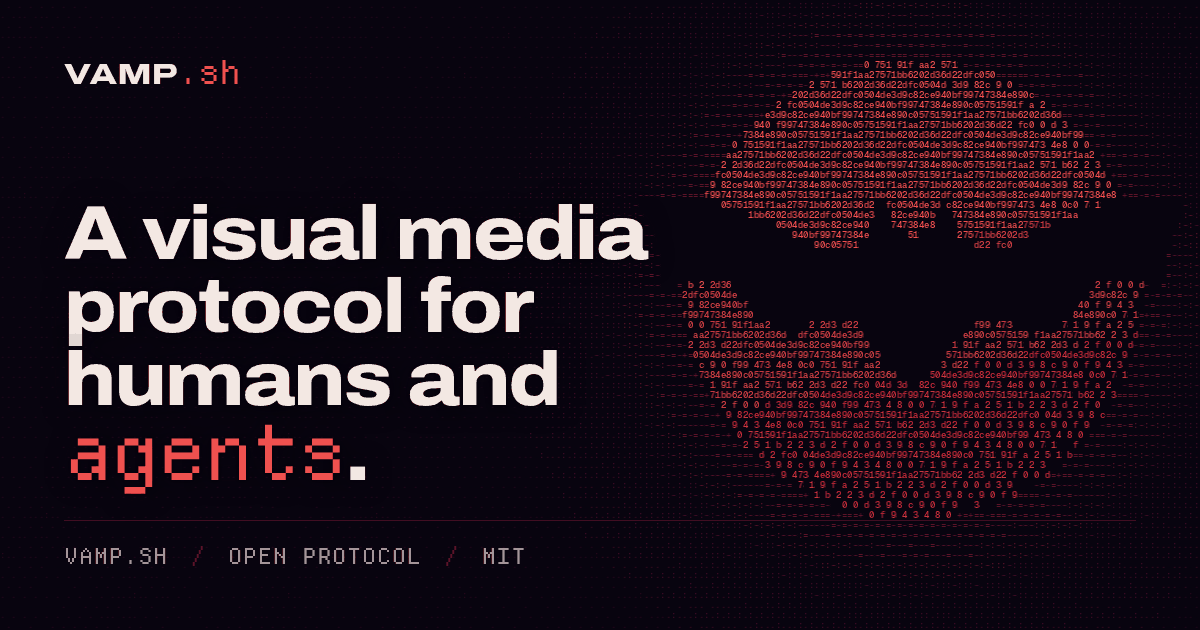
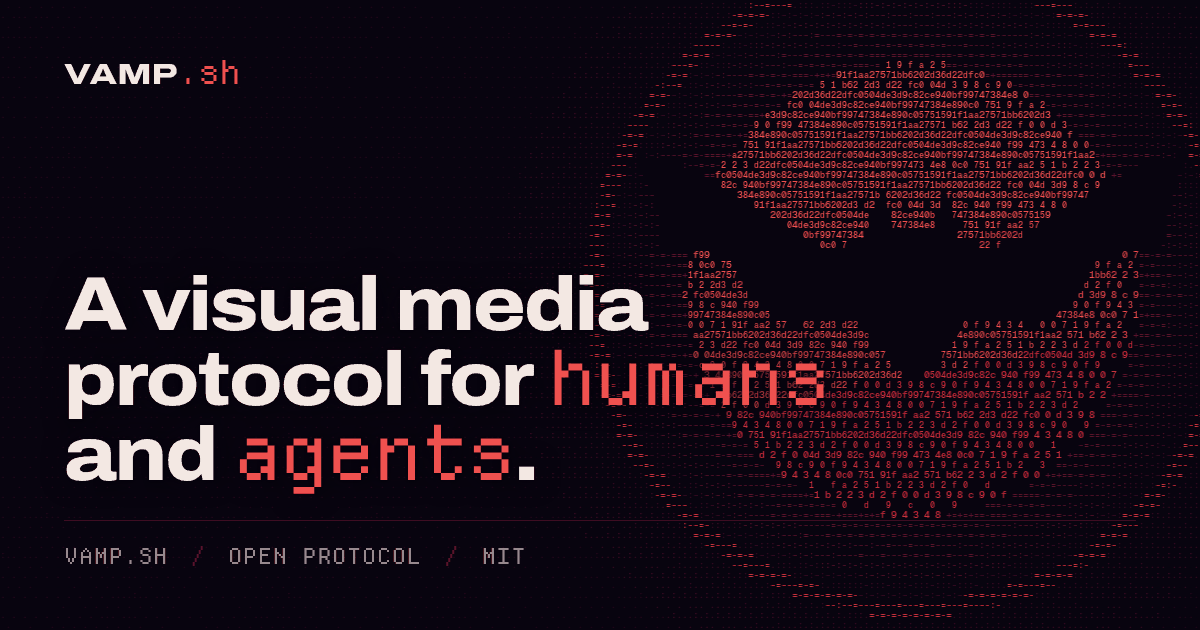
site v3: continuous wing flap, humans + agents highlighted, hero strip removed

diff --git a/site/field.js b/site/field.js
@@ -3,12 +3,11 @@
  * The moon's dense cells are the hex digits of moon-bat.jpg's real BLAKE3 digest
  * (see session.log), so the picture is literally drawn from its catalog data.
  *
- * Motion is a four-beat figure at 92 BPM, quantised to eighth-of-a-beat steps:
- *   beat 1  the moon swells (the downbeat)
- *   beat 2  a ring leaves the rim (the hi-hat on 2)
- *   beat 3  the wings lift
- *   beat 4  a second ring; the wings settle
- * The Bayer matrix shifts on every beat, so the texture re-voices like a comping hand.
+ * Motion is one seamless loop on the 92 BPM clock, a continuous function of time (no steps, no holds):
+ *   the wings flap once every 2 beats (a sine, so the stroke eases through top and bottom),
+ *   a faint ring leaves the rim on each downstroke and fades out before the next,
+ *   the moon breathes once per bar.
+ * Every term is periodic in 4 beats, so the loop point is invisible.
  *
  * Works in the browser (canvas) and in Node (ascii() only, for llms.txt).
  */
@@ -17,11 +16,12 @@
 
   var TEMPO = 92;
   var BEAT_MS = 60000 / TEMPO;
-  var STEPS = 8; // redraws per beat
+  var FRAME_MS = 1000 / 30; // redraw cap
[1 lines of base64/hex data omitted]
   var RAMP = ' .:-=+*#%@';
   var HEX = '0123456789abcdef';
   var BAYER = [0, 8, 2, 10, 12, 4, 14, 6, 3, 11, 1, 9, 15, 7, 13, 5];
+  var TAU = Math.PI * 2;
 
   // Palette from the icon (BRIEF.md). Index = colour slot in the glyph atlas.
   var COLORS = ['#ef514f', '#df3f46', '#ce2b39', '#59142d', '#3f0d28', '#290922', '#ce2b39'];
@@ -48,48 +48,47 @@
 
   function smooth(t) { t = t < 0 ? 0 : t > 1 ? 1 : t; return t * t * (3 - 2 * t); }
 
-  // Envelope of the figure at (beat 0..3, phase 0..1).
-  function figure(beat, p) {
-    var decay = (1 - p) * (1 - p);
+  // The figure at continuous time t (in beats). Periodic in 4 beats.
+  function figure(t) {
+    var flap = t / 2;                         // one wingbeat per 2 beats
+    var ring = flap - Math.floor(flap);        // 0..1 within the wingbeat
     return {
-      swell: beat === 0 ? decay : 0,
-      ring: beat === 1 || beat === 3 ? p : -1,
-      lift: beat === 2 ? smooth(p) : beat === 3 ? 1 - smooth(p) : 0,
-      shift: beat
+      lift: Math.sin(TAU * flap),              // -1 (down) .. 1 (up), eased at both ends
+      ring: ring,
+      ringA: Math.sin(Math.PI * ring),         // fades in and out: no pop at the loop point
+      swell: 0.5 - 0.5 * Math.cos(TAU * t / 4) // once per bar
     };
   }
 
   // One cell. dx, dy in moon radii. Returns glyph char code slot or -1, and colour.
   // out = [glyphIndex (0..9 ramp, 10..25 hex), colour]
-  function cell(dx, dy, col, row, f, hashOff, out) {
-    // Wings lift by sampling the mask lower, more toward the tips.
+  function cell(dx, dy, col, row, f, out) {
+    // Wings flap by sampling the mask lower (up) or higher (down), more toward the tips.
     var ax = dx < 0 ? -dx : dx;
     var wing = smooth((ax - 0.22) / 1.0);
-    var by = dy + f.lift * (0.035 + 0.2 * wing * wing);
+    var by = dy + f.lift * (0.02 + 0.17 * wing * wing);
     var d = Math.sqrt(dx * dx + dy * dy);
-    var bx = BAYER[((row + f.shift * 3) & 3) * 4 + ((col + f.shift) & 3)] / 16 - 0.5;
+    var bx = BAYER[(row & 3) * 4 + (col & 3)] / 16 - 0.5;
 
     if (isBat(dx, by)) { out[0] = -1; return; }
 
     var L, c;
-    var rim = 1 + 0.025 * f.swell;
+    var rim = 1 + 0.02 * f.swell;
     if (d < rim) {
       // 1-bit ordered dither inside the moon: a cell is a digest digit or nothing.
-      L = 0.82 - 0.26 * (dx * 0.45 + dy * 0.8) + 0.2 * f.swell - 0.36 * Math.pow(d / rim, 8);
+      L = 0.82 - 0.26 * (dx * 0.45 + dy * 0.8) + 0.14 * f.swell - 0.36 * Math.pow(d / rim, 8);
       if (L + bx * 0.9 < 0.5) { out[0] = -1; return; }
       var g = (dy + 1) * 0.42 + (dx + 1) * 0.08;
-      out[0] = 10 + HEX.indexOf(HASH.charAt(((row * 11 + col) + hashOff) & 63));
+      out[0] = 10 + HEX.indexOf(HASH.charAt((row * 11 + col) & 63));
       out[1] = C_MOON + (g < 0.42 ? 0 : g < 0.66 ? 1 : 2);
       return;
     }
 
-    // Halo and the ring that leaves the rim on 2 and 4.
+    // Halo and the ring that leaves the rim on each downstroke.
     L = 0.46 * Math.exp(-(d - 1) * 1.9);
     c = d < 1.28 ? C_HALO : d < 1.8 ? C_HALO + 1 : C_FAR;
-    if (f.ring >= 0) {
-      var rr = 1.08 + f.ring * 1.3;
-      if (Math.abs(d - rr) < 0.04) { L += 0.36 * (1 - f.ring); if (f.ring < 0.5) c = C_RING; }
-    }
+    var rr = 1.08 + f.ring * 1.3;
+    if (Math.abs(d - rr) < 0.04) { L += 0.3 * f.ringA * (1 - f.ring); if (f.ring < 0.5) c = C_RING; }
     if (d > 2.1) L = Math.max(L, 0.055 + 0.035 * Math.sin(col * 0.21 + row * 0.37));
     var lv = Math.round(L * 9 + bx * 1.6);
     out[0] = lv < 1 ? -1 : lv > 9 ? 9 : lv; out[1] = c;
@@ -108,7 +107,7 @@
     var aspect = opts.aspect || 0.5; // cell width / cell height
     var r = opts.radius || rows * 0.34;
     var cx = cols / 2, cy = rows / 2;
-    var f = figure(0, 0.99);
+    var f = figure(0.5); // wings at the top of the stroke
     var out = [0, 0], lines = [];
     for (var y = 0; y < rows; y++) {
       var s = '';
@@ -116,7 +115,7 @@
         var dx = ((x + 0.5 - cx) * aspect) / r, dy = (y + 0.5 - cy) / r;
         var d = Math.sqrt(dx * dx + dy * dy);
         if (d > 1.3) { s += ' '; continue; }
-        cell(dx, dy, x, y, f, 0, out);
+        cell(dx, dy, x, y, f, out);
         s += out[0] < 0 ? ' ' : out[0] >= 10 ? HEX.charAt(out[0] - 10) : RAMP.charAt(out[0]);
       }
       lines.push(s.replace(/\s+$/, ''));
@@ -125,14 +124,14 @@
   }
 
   /* Canvas field. opts.layout(w, h) -> {cx, cy, r} in CSS px; opts.epoch is the shared
-     performance.now() origin of bar 1, so the page's beat counter and the field agree. */
+     performance.now() origin of the 92 BPM clock (the terminal enters on the same beats). */
   function Field(canvas, opts) {
     this.canvas = canvas;
     this.ctx = canvas.getContext('2d');
     this.opts = opts;
     this.reduced = !!opts.reduced;
     this.running = false;
-    this.lastStep = -1;
+    this.lastDraw = 0;
     this.revealStart = 0;
     this.out = [0, 0];
     batBits();
@@ -156,9 +155,15 @@
     this.rows = Math.ceil(h / this.ch);
     this.geom = this.opts.layout(w, h);
     this.buildAtlas(font);
-    this.lastStep = -1;
-    // Still frame (reduced motion, OG card, 404): just after the downbeat, moon swelled.
-    if (!this.running && (this.reduced || this.revealStart)) this.draw(0, 0.25, 0, 1);
+    // Integer cell boxes, so a cell can be cleared and redrawn without touching its neighbours.
+    this.xs = new Int32Array(this.cols + 1);
+    this.ys = new Int32Array(this.rows + 1);
+    for (var i = 0; i <= this.cols; i++) this.xs[i] = Math.round(i * this.cw * dpr);
+    for (var j = 0; j <= this.rows; j++) this.ys[j] = Math.round(j * this.ch * dpr);
+    this.state = new Int16Array(this.cols * this.rows).fill(-1); // resizing cleared the canvas
+    this.lastDraw = 0;
+    // Still frame (reduced motion, OG card, 404): wings at the top of the stroke.
+    if (!this.running && (this.reduced || this.revealStart)) this.draw(0.5, 1);
   };
 
   Field.prototype.buildAtlas = function (font) {
@@ -176,20 +181,27 @@
     }
   };
 
-  Field.prototype.draw = function (beat, p, hashOff, reveal) {
+  /* Only cells whose glyph changed since the last frame are cleared and redrawn: the moon and halo
+     are mostly still, so a frame of the flap touches a few hundred cells, not ~15k. */
+  Field.prototype.draw = function (t, reveal) {
     var ctx = this.ctx, dpr = this.dpr, cw = this.cw, ch = this.ch, g = this.geom;
-    var f = figure(beat, p), out = this.out, atlas = this.atlas;
-    var sw = cw * dpr, sh = ch * dpr;
+    var f = figure(t), out = this.out, atlas = this.atlas, state = this.state, xs = this.xs, ys = this.ys;
+    var sw = cw * dpr, sh = ch * dpr, cols = this.cols;
     ctx.setTransform(1, 0, 0, 1, 0, 0);
-    ctx.clearRect(0, 0, this.canvas.width, this.canvas.height);
     for (var row = 0; row < this.rows; row++) {
-      var py = (row + 0.5) * ch, dy = (py - g.cy) / g.r;
-      for (var col = 0; col < this.cols; col++) {
-        if (reveal < 1 && hash2((col / 4) | 0, (row / 3) | 0) > reveal) continue;
-        var px = (col + 0.5) * cw;
-        cell((px - g.cx) / g.r, dy, col, row, f, hashOff, out);
-        if (out[0] < 0) continue;
-        ctx.drawImage(atlas, out[0] * sw, out[1] * sh, sw, sh, Math.round(col * cw * dpr), Math.round(row * ch * dpr), sw, sh);
+      var py = (row + 0.5) * ch, dy = (py - g.cy) / g.r, y0 = ys[row], hh = ys[row + 1] - y0;
+      for (var col = 0; col < cols; col++) {
+        var code = -1;
+        if (reveal >= 1 || hash2((col / 4) | 0, (row / 3) | 0) <= reveal) {
+          cell(((col + 0.5) * cw - g.cx) / g.r, dy, col, row, f, out);
+          if (out[0] >= 0) code = out[0] * 8 + out[1];
+        }
+        var k = row * cols + col;
+        if (code === state[k]) continue;
+        state[k] = code;
+        var x0 = xs[col], ww = xs[col + 1] - x0;
+        ctx.clearRect(x0, y0, ww, hh);
+        if (code >= 0) ctx.drawImage(atlas, (code >> 3) * sw, (code & 7) * sh, sw, sh, x0, y0, ww, hh);
       }
     }
   };
@@ -198,12 +210,9 @@
     if (!this.running) return;
     requestAnimationFrame(this.frame);
     if (!this.revealStart) this.revealStart = now;
-    var step = Math.floor((now - this.opts.epoch) / (BEAT_MS / STEPS));
-    var reveal = smooth((now - this.revealStart) / 1100);
-    if (step === this.lastStep && reveal >= 1) return;
-    this.lastStep = step;
-    var beatsTotal = Math.floor(step / STEPS);
-    this.draw(beatsTotal & 3, (step % STEPS) / STEPS, beatsTotal, reveal);
+    if (now - this.lastDraw < FRAME_MS) return;
+    this.lastDraw = now;
+    this.draw((now - this.opts.epoch) / BEAT_MS, smooth((now - this.revealStart) / 1100));
   };
 
   Field.prototype.start = function () {

diff --git a/site/styles.css b/site/styles.css
@@ -100,28 +100,18 @@ i { font-style: normal; color: var(--aub-3); padding: 0 0.35em; }
 .hero {
   position: relative; isolation: isolate; overflow: hidden;
   min-height: max(640px, calc(100svh - var(--nav-h)));
-  display: grid; grid-template-columns: repeat(12, minmax(0, 1fr)); grid-template-rows: auto 1fr auto auto;
-  column-gap: var(--gap); padding: 32px var(--pad) 88px;
+  display: grid; grid-template-columns: repeat(12, minmax(0, 1fr)); grid-template-rows: auto 1fr auto;
+  column-gap: var(--gap); padding: 32px var(--pad) 112px;
 }
 .field { position: absolute; inset: 0; width: 100%; height: 100%; z-index: -1; }
 .fig { grid-column: 8 / -1; grid-row: 1; justify-self: end; text-align: right; color: var(--paper); }
 .fig span { color: var(--muted); }
 .hero h1 {
-  grid-column: 1 / span 7; grid-row: 3; padding-bottom: 48px;
+  grid-column: 1 / span 7; grid-row: 3;
   font: 800 var(--d1)/0.98 var(--display); font-stretch: 112%; letter-spacing: -0.022em;
   text-wrap: balance; text-shadow: 0 0 24px var(--ground), 0 0 4px var(--ground);
 }
 .hero h1 .px { font-size: 0.9em; }
-.hero-foot {
-  grid-column: 1 / -1; grid-row: 4;
-  display: flex; justify-content: space-between; align-items: end; gap: var(--gap);
-  border-top: 1px solid var(--aub-2); padding-top: 16px;
-}
-.counter { display: flex; align-items: end; gap: 12px; }
-.bar-n { font: 400 var(--px-l)/0.8 var(--pixel); font-variant-numeric: tabular-nums; }
-.beats { display: flex; gap: 4px; }
-.beats li { width: 33px; height: 22px; display: grid; place-items: center; font: 400 var(--px-s)/1 var(--pixel); color: var(--muted); border: 1px solid var(--aub-2); }
-.beats li.on { background: var(--coral); border-color: var(--coral); color: var(--ink); }
 
 /* ── sections: label, one line, one artifact ── */
 .section { padding: var(--section) var(--pad) 0; }
@@ -267,13 +257,9 @@ body[data-view="machine"] .nav { display: none; }
 /* ── phone ── */
 @media (max-width: 600px) {
   :root { --m: 12px; --d3: 18px; --d2: 11.4vw; }
-  .hero { min-height: calc(100svh - var(--nav-h)); padding-top: 20px; padding-bottom: 80px; grid-template-rows: auto 1fr auto auto; }
+  .hero { min-height: calc(100svh - var(--nav-h)); padding-top: 20px; padding-bottom: 104px; }
   .fig { display: none; }
-  .hero-foot { display: contents; }
-  .hero-foot > .cap { grid-column: 1 / -1; grid-row: 1; }
-  .hero h1 { grid-column: 1 / -1; align-self: end; margin-top: 82vw; font-size: 40px; line-height: 1; padding-bottom: 24px; }
-  .counter { grid-column: 1 / -1; grid-row: 4; justify-content: space-between; border-top: 1px solid var(--aub-2); padding-top: 14px; }
-  .bar-n { font-size: var(--px-m); line-height: 1; margin-right: auto; }
+  .hero h1 { grid-column: 1 / -1; align-self: end; margin-top: 82vw; font-size: 40px; line-height: 1; }
   .head { margin-bottom: 32px; }
   .vampire img { margin-bottom: 0; }
   .card { padding: 14px; }

diff --git a/site/app.js b/site/app.js
@@ -1,4 +1,4 @@
-/* vamp.sh. No dependencies. One clock (92 BPM) drives the field, the bar counter and the terminal. */
+/* vamp.sh. No dependencies. One clock (92 BPM) drives the field's flap and the terminal's entries. */
 (function () {
   'use strict';
 
@@ -49,19 +49,7 @@
   $('#roots').innerHTML = D.schema.map(function (s) { return '<li>' + s.root + '</li>'; }).join('');
   $('#schema-count').textContent = D.schema.filter(function (s) { return s.root !== 'contract' && s.root !== 'protocol_version'; }).length;
 
-  /* ── the clock ── */
-  var beatEls = all('#beats li'), barEl = $('#bar');
-  function onBeat(bar, beat) {
-    barEl.textContent = String(bar).padStart(4, '0');
-    for (var i = 0; i < 4; i++) beatEls[i].classList.toggle('on', i === beat);
-  }
-  var metro = { on: false, last: -1 };
-  function metroTick(now) {
-    if (!metro.on) return;
-    requestAnimationFrame(metroTick);
-    var b = Math.floor((now - EPOCH) / BEAT);
-    if (b !== metro.last) { metro.last = b; onBeat((b >> 2) + 1, b & 3); }
-  }
+  /* ── the clock (shared by the field and the terminal) ── */
   /* ms until the next multiple of `beats` on the shared clock */
   function untilGrid(beats) {
     var span = BEAT * beats, t = performance.now() - EPOCH;
@@ -82,19 +70,16 @@
     sync = function () {
       var live = !document.hidden && !reduced.matches && document.body.dataset.view === 'human' && heroOn;
       if (live) field.start(); else field.stop();
-      if (live && !metro.on) { metro.on = true; requestAnimationFrame(metroTick); }
-      if (!live) metro.on = false;
     };
     new IntersectionObserver(function (e) { heroOn = e[0].isIntersecting; sync(); }).observe(canvas);
     document.addEventListener('visibilitychange', sync);
     reduced.addEventListener('change', function () {
       field.reduced = reduced.matches;
-      if (reduced.matches) { field.stop(); field.resize(); onBeat(1, 0); }
+      if (reduced.matches) { field.stop(); field.resize(); }
       sync();
     });
     var raf = 0;
     new ResizeObserver(function () { cancelAnimationFrame(raf); raf = requestAnimationFrame(function () { field.resize(); }); }).observe(canvas);
-    if (reduced.matches) onBeat(1, 0);
     sync();
   }
 

diff --git a/site/index.html b/site/index.html
@@ -48,15 +48,7 @@
   <section class="hero" id="top" aria-labelledby="hero-title">
     <canvas class="field" id="field" role="img" aria-label="The VAMP bat and moon, drawn in ASCII from the BLAKE3 digest of the icon"></canvas>
     <p class="fig cap"><span>fig.</span> moon-bat.jpg <span>blake3</span> 504de3d9…22dfc0</p>
-    <h1 id="hero-title">A visual media protocol for humans and <span class="px">agents</span>.</h1>
-    <div class="hero-foot">
-      <p class="cap">Open protocol <i>/</i> MIT <i>/</i> experimental</p>
-      <div class="counter" aria-hidden="true">
-        <p class="cap">Bar</p>
-        <p class="bar-n" id="bar">0001</p>
-        <ol class="beats" id="beats"><li>1</li><li>2</li><li>3</li><li>4</li></ol>
-      </div>
-    </div>
+    <h1 id="hero-title">A visual media protocol for <span class="px">humans</span> and <span class="px">agents</span>.</h1>
   </section>
 
   <section class="section" id="keep" aria-labelledby="keep-title">

diff --git a/site/tools/og.html b/site/tools/og.html
@@ -19,7 +19,7 @@
 <div class="og">
   <canvas class="field" id="field"></canvas>
   <p class="brand">VAMP<span>.sh</span></p>
-  <h1>A visual media protocol for humans and <span class="px">agents</span>.</h1>
+  <h1>A visual media protocol for <span class="px">humans</span> and <span class="px">agents</span>.</h1>
   <p class="cap">vamp.sh <i>/</i> open protocol <i>/</i> MIT</p>
 </div>
 <script src="../bat-mask.js"></script>

diff --git a/site/index.md b/site/index.md
@@ -6,27 +6,27 @@
                               :-:-:-:-:-:-:-::
                          :-:-:----=-=-=-=-=--:-:-:-
                       :-:-:--=-=-=-=-=-=-=-=-=----:-:-
-                   :----=-=-==+=04de3d9c82c +==-=-=-=--:-
+                   :----=-=-==+504de3d9c82ce9==-=-=-=--:-
                  ::-:--=-=-9 82c 940 f99 473 4 8 =-=--:-:-:
                 -:--=-==0bf99747384e890c05751591f a =-=--:-:
                -:-:--= 4e890c05751591f1aa27571 b62 2 3-=--:-:
-             :-:=-=-+51591f1aa27571bb6202d36d22dfc0504d==-=--:-
-             -:-:=-= 571 b6202d3 d22 fc0 04d 3d9 8 c 9 0-=--:-:
-            -      d36d22dfc0504de3 9c82ce940bf99747384e8      :
-           ::-           9c82ce940  99 4   4e8 0c0            :-:
-           :--               7384          591f               -:-
-           -:--                                              -:-:
-           :--= = 7515                                 d9 8= -=--
-           -:--=-2 571                               0 f 9 =-=:-:
-           :--=-+ 36d22dfc 504de3          bf9974 384e8 0 0==--:-
-           -:-:=-= d 3 9 8 c 9 0 f       4 8 0 0 7 1 9 f  -=--:-:
-            -:=-=-+ 0 f99747384e890c0  51 91f aa2 571 b 2==-=--:
-             -:--=-= 8 0 0 7 1 9 f a 2 5 1 b 2 2 3 d 2  ==--:-:
-             :-:=-=-+ f aa27571bb6202d36d22 fc0 04d 3 9==-=--:-
+                =-=-+51591f1aa27571bb6202d36d22dfc0504d==-=-
+             -       571bb6202d36d22 fc0 04d 3d9 8 c 9 0
+            -:         22dfc0504de3 9c82  940bf997473         -:
+           ::-:           c82ce940  9974   4e8 0c0           -:-:
+           :--=               3              1               --:-
+           -:--=-4 3                                   2 f =--:-:
+           :--=-= 75159                               3d9 8==-=--
+           -:--=-2 571 b                             0 f 9 =-=:-:
+           :--=-+d36d22dfc0504de3d        0bf99747384e8 0 0==--:-
+           -:-:=-= d 3 9 82c 9 0 f       4 8 0 0 7 1 9 f  -=--:-:
+            -:=-=-+ 0bf99747384e890c0  51591f aa2 571 b 2==-=--:
+             -:--=-4 8 0 0 751 9 f a 2 5 1 b 2 2 3 d 2   =--:-:
+             :-:=-=-+ f aa27571bb6202d36d22dfc0 04d 3 9==-=--:-
                -:--=-= 2 2 3 d 2 f 0 0 d 3 9 8 c 9 0  -=--:-:
-                -:--=-==0 0 d 3d9 82c 9 0 f 9 4 3 4 =-=--:-:
+                -:--=-==0 0 d 3d9 82c 940 f 9 4 3 4 =-=--:-:
                  -:-:--=-=-  0 f 9 4 3 4 8 0 0   =-=-=:-:-:
-                   :----=-=-==+=0 0 7 1 9 f +==-=-=-=--:-
+                   :----=-=-==+ 0 0 7 1 9 f a==-=-=-=--:-
                       :-:-:-:--=-=-=-=-=-=-=----:-:-::
                          :-:-:----=-=-=-=-=--:-:-:-
                               :-:-:-:-:-:-:-:-

diff --git a/site/README.md b/site/README.md
@@ -7,7 +7,7 @@ Static, no framework, no runtime CDNs. Opens from `file://` or any static host. 
 
 - `index.html`, `styles.css`, `app.js`: the Human page (hero, then Keep, Deliver, Transform, Share, Vampire, Spec
   footer), the HUMAN | MACHINE switch and the Deliver terminal replay.
-- `field.js` + `bat-mask.js`: the ASCII bat and moon on one 4-beat loop at 92 BPM. The canvas pauses offscreen, in
+- `field.js` + `bat-mask.js`: the ASCII bat and moon; the wings flap in one seamless sine loop (a wingbeat per 2 beats at 92 BPM, redrawn at up to 30 fps). The canvas pauses offscreen, in
   hidden tabs and in the Machine view; with reduced motion it shows a single still frame.
 - `content.js`: the tagline, the five section lines, every artifact and the complete plain reference. It renders the
   Machine view (`#machine`) and produces `llms.txt` and `index.md`. `build.mjs --check` fails if the lines in
